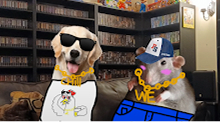
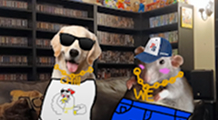
-

diff --git a/src/app/video/components/Facecam.vue b/src/app/video/components/Facecam.vue
@@ -7,7 +7,7 @@ const preferenceStore = usePreferenceStore();
 <template>
     <div
         v-if="preferenceStore.preferences.showFacecam"
-        class="aspect-video w-[30%] absolute bottom-2 right-2 overflow-hidden rounded-md shadow-lg bg-black"
+        class="aspect-video w-[30%] max-w-60 absolute bottom-2 right-2 overflow-hidden rounded-md shadow-lg bg-black"
     >
         <img src="/images/facecam2.jpg" class="object-fill w-full h-full" alt="Malse Facecam" />
         <a
